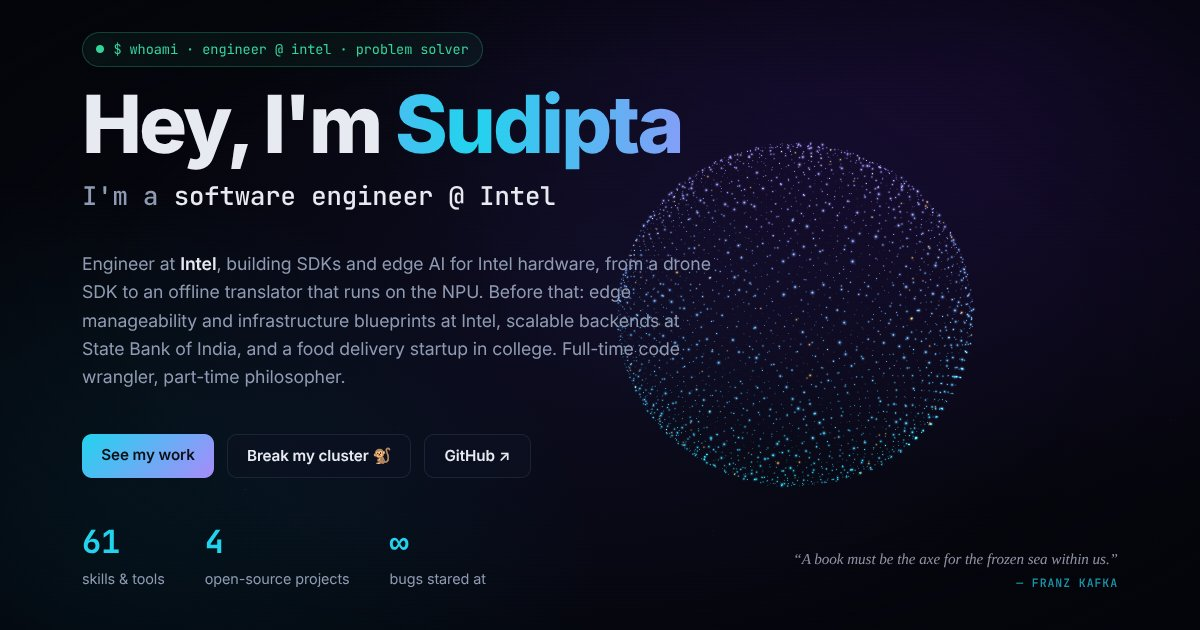
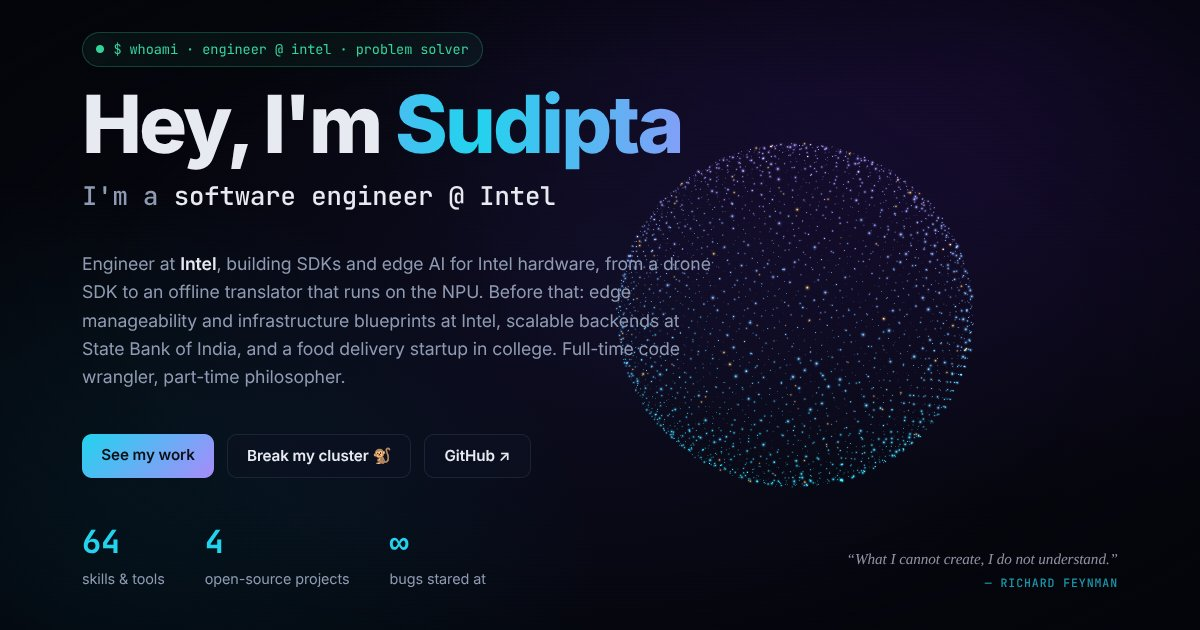
Add Flute Mastery Journey and Second Brain; make Tech Playground collapsible (#8)

diff --git a/docs/main.js b/docs/main.js
@@ -33,6 +33,8 @@
     dsa: ["dsaRepo", "https://github.com/xudipta/dsaRepo"],
     spring: ["springbootCRUD", "https://github.com/xudipta/springbootCRUD"],
     flutter: ["paint_flutter", "https://github.com/xudipta/paint_flutter"],
+    flute: ["Flute Mastery Journey", "https://github.com/xudipta/Flute-Mastery-Journey"],
+    brain: ["Second Brain", "https://github.com/xudipta/second-brain-app"],
     site: ["this site", null],
   };
 
@@ -52,9 +54,10 @@
       items: [["RAG", "mynna"], ["LLM pipelines", "mynna"], ["Pluggable small models", "mynna"], ["Prompt design", "mynna"], ["Hybrid search", "mynna"],
         ["Agent Skills", "cookbook"], ["Model Context Protocol (MCP)", "cookbook"]] },
     { id: "langs", icon: "💻", title: "Languages", blurb: "Picking the right tool, not the favourite one.",
-      items: [["Go"], ["Python", "lingua", "mynna"], ["Java", "spring", "lld"], ["C++", "games", "dsa"], ["JavaScript", "site"], ["SQL", "mynna"], ["Shell", "cookbook"], ["PowerShell"]] },
+      items: [["Go"], ["Python", "lingua", "mynna"], ["Java", "spring", "lld"], ["C++", "games", "dsa"], ["JavaScript", "site", "flute", "brain"], ["SQL", "mynna"], ["Shell", "cookbook"], ["PowerShell"]] },
     { id: "frontend", icon: "🎨", title: "Frontend, Graphics & Games", blurb: "Because shipping includes the part people see.",
-      items: [["WebGL", "site"], ["Canvas & animation", "site"], ["HTML & CSS", "site"], ["Flutter", "flutter"], ["Game development", "games"]] },
+      items: [["WebGL", "site"], ["Canvas & animation", "site", "flute"], ["HTML & CSS", "site"], ["Web Audio", "flute"], ["PWA & offline-first", "flute", "brain"],
+        ["Web Crypto", "brain"], ["Flutter", "flutter"], ["Game development", "games"]] },
     { id: "craft", icon: "📐", title: "Engineering Craft", blurb: "How I think before I type.",
       items: [["System design (HLD)"], ["Low-level design (LLD)", "lld"], ["Design patterns", "lld"], ["Data structures & algorithms", "dsa"],
         ["Architecture decision records", "mynna"], ["POC → production", "mynna"], ["Testing in CI", "cookbook"]] },
@@ -66,6 +69,12 @@
     { name: "Mynna", org: "OxomiAi", url: "https://trip.mynna.chat", linkLabel: "live ↗", icon: "🐦",
       desc: "Shared-session trip planner for Northeast India. Friends plan together in one live chat with Mynna, an AI bot grounded in a curated knowledge base, which builds a shared, live itinerary.",
       tags: ["Python", "FastAPI", "WebSockets", "PostgreSQL", "pgvector", "RAG", "LLM", "Docker"] },
+    { name: "Flute Mastery Journey", repo: `${GITHUB_USER}/Flute-Mastery-Journey`, url: "https://xudipta.github.io/Flute-Mastery-Journey/", linkLabel: "live ↗", icon: "🎶",
+      desc: "An interactive guide to the Indian classical bansuri, from first sur to concert-stage raga: a timed daily riyaaz routine, a microphone pitch tuner, synthesised tanpura and tabla, a tap-to-hear finger chart and animated demos for 16 ragas. Installable and works offline.",
+      tags: ["JavaScript", "Web Audio", "Pitch detection", "PWA", "Offline-first", "Canvas"] },
+    { name: "Second Brain", repo: `${GITHUB_USER}/second-brain-app`, icon: "🧠",
+      desc: "A private capture app for my personal knowledge notebook. It interviews you one question at a time using proven frameworks such as Getting Things Done, never rewrites your words, encrypts everything in the browser and exports clean Markdown.",
+      tags: ["JavaScript", "PWA", "Web Crypto", "AES-256-GCM", "Offline-first", "Markdown"] },
     { name: "nostalgia-bytes", org: "sbrous-org", repo: "sbrous-org/nostalgia-bytes", icon: "🎮",
       desc: "Classic games built in C++: Serpente (Snake), Traffigo (car race), Egatho (egg basket) and Broppy (Flappy Bird), with Make and Windows build scripts.",
       tags: ["C++", "Game Dev", "Make"] },
@@ -174,7 +183,7 @@
 
   // ---------- Skills & projects ----------
   function renderSkills() {
-    const root = $("#skill-groups"), tabs = $("#skill-tabs");
+    const root = $("#skill-groups");
     const total = skills.reduce((n, g) => n + g.items.length, 0);
     const stat = document.querySelector("[data-count-skills]");
     if (stat) stat.dataset.count = total;
@@ -183,16 +192,11 @@
     tip.className = "skill-tip";
     document.body.appendChild(tip);
 
-    tabs.innerHTML = [`<button type="button" class="tab active" data-f="all">All <span>${total}</span></button>`]
-      .concat(skills.map((g) => `<button type="button" class="tab" data-f="${g.id}">${g.icon} ${g.title} <span>${g.items.length}</span></button>`)).join("");
 
     let delay = 0;
-    for (const g of skills) {
-      const card = document.createElement("div");
-      card.className = "card skill-card tilt";
-      card.dataset.group = g.id;
-      card.innerHTML = `<div class="skill-head"><span class="ico">${g.icon}</span><h4>${g.title}</h4><span class="count">${g.items.length}</span></div><p>${g.blurb}</p><div class="chips"></div>`;
-      const chips = card.querySelector(".chips");
+    const chipsFor = (g) => {
+      const chips = document.createElement("div");
+      chips.className = "chips";
       for (const [name, ...refs] of g.items) {
         const used = refs.map((r) => proof[r]).filter(Boolean);
         const link = used.find(([, url]) => url);
@@ -216,20 +220,72 @@
         });
         chips.appendChild(c);
       }
-      root.appendChild(card);
-    }
+      return chips;
+    };
+    const preview = (g) => {
+      const names = g.items.slice(0, 3).map(([n]) => n).join(" · ");
+      return g.items.length > 3 ? `${names} <b>+${g.items.length - 3}</b>` : names;
+    };
+
+    // Phones: one row per category that expands in place, so the skills open right where you tapped.
+    const renderAccordion = () => {
+      skills.forEach((g, i) => {
+        const row = document.createElement("div");
+        row.className = "skill-row card";
+        row.innerHTML = `<button type="button" class="skill-row-head" aria-expanded="false" aria-controls="sk-${g.id}">
+            <span class="ico">${g.icon}</span><span class="skill-row-title"><b>${g.title}</b><small>${preview(g)}</small></span>
+            <span class="count">${g.items.length}</span><span class="chev" aria-hidden="true">⌄</span></button>
+          <div class="skill-row-body" id="sk-${g.id}" role="region"><div><p>${g.blurb}</p></div></div>`;
+        row.querySelector(".skill-row-body > div").appendChild(chipsFor(g));
+        const head = row.querySelector(".skill-row-head");
+        head.addEventListener("click", () => {
+          const open = head.getAttribute("aria-expanded") !== "true";
+          head.setAttribute("aria-expanded", String(open));
+          row.classList.toggle("open", open);
+        });
+        root.appendChild(row);
+        if (i === 0) head.click();
+      });
+    };
+
+    // Wider screens: compact tiles, with the selected category's skills in a panel below.
+    const renderTiles = () => {
+      const grid = document.createElement("div");
+      grid.className = "skill-tiles";
+      grid.setAttribute("role", "tablist");
+      const drawer = document.createElement("div");
+      drawer.className = "skill-drawer card";
+      drawer.setAttribute("role", "tabpanel");
+      const select = (g, tile) => {
+        grid.querySelectorAll(".skill-tile").forEach((t) => t.setAttribute("aria-selected", String(t === tile)));
+        drawer.innerHTML = `<div class="skill-head"><span class="ico">${g.icon}</span><h4>${g.title}</h4><span class="count">${g.items.length}</span></div><p>${g.blurb}</p>`;
+        drawer.appendChild(chipsFor(g));
+        drawer.classList.remove("swap"); void drawer.offsetWidth; drawer.classList.add("swap");
+      };
+      skills.forEach((g, i) => {
+        const tile = document.createElement("button");
+        tile.type = "button";
+        tile.className = "skill-tile card";
+        tile.setAttribute("role", "tab");
+        tile.innerHTML = `<span class="ico">${g.icon}</span><b>${g.title}</b><small>${preview(g)}</small><span class="count">${g.items.length}</span>`;
+        tile.addEventListener("click", () => select(g, tile));
+        grid.appendChild(tile);
+        if (i === 0) select(g, tile);
+      });
+      root.append(grid, drawer);
+    };
+
+    const narrow = window.matchMedia("(max-width: 800px)");
+    const layout = () => {
+      root.replaceChildren();
+      root.className = `skill-groups ${narrow.matches ? "accordion" : "tiles"}`;
+      (narrow.matches ? renderAccordion : renderTiles)();
+    };
+    layout();
+    narrow.addEventListener("change", layout);
 
     root.insertAdjacentHTML("afterend", `<div class="exploring"><span class="pulse"></span><b>Currently exploring</b>${exploring.map((e) => `<span>${e}</span>`).join("")}</div>`);
 
-    tabs.addEventListener("click", (e) => {
-      const t = e.target.closest(".tab");
-      if (!t) return;
-      tabs.querySelectorAll(".tab").forEach((b) => b.classList.toggle("active", b === t));
-      root.querySelectorAll(".skill-card").forEach((card) => {
-        card.hidden = t.dataset.f !== "all" && card.dataset.group !== t.dataset.f;
-      });
-      root.classList.toggle("single", t.dataset.f !== "all");
-    });
     window.addEventListener("scroll", () => tip.classList.remove("on"), { passive: true });
   }
 
@@ -258,7 +314,7 @@
         .then((r) => (r.ok ? r.json() : null))
         .then((repo) => {
           const el = document.querySelector(`.stars[data-repo="${p.repo}"]`);
-          if (repo && el && repo.stargazers_count > 0) el.textContent = `★ ${repo.stargazers_count}`;
+          if (repo && el && repo.stargazers_count > 0) el.textContent = [el.textContent, `★ ${repo.stargazers_count}`].filter(Boolean).join(" · ");
         })
         .catch(() => {});
     }

diff --git a/docs/style.css b/docs/style.css
@@ -289,24 +289,9 @@ kbd { font: 500 0.7rem var(--mono); padding: 0.05rem 0.35rem; border: 1px solid 
 
 /* Skills */
 .skills-intro { margin: -0.6rem 0 1.1rem; }
-.skill-tabs { display: flex; gap: 0.45rem; overflow-x: auto; padding-bottom: 0.4rem; margin-bottom: 1rem; scrollbar-width: thin; }
-.tab {
-  flex: none; font: 500 0.8rem var(--mono); color: var(--muted); background: rgba(12, 16, 32, .6); border: 1px solid var(--line);
-  border-radius: 999px; padding: 0.4rem 0.8rem; cursor: pointer; transition: color .2s, border-color .2s, background .2s;
-}
-.tab span { margin-left: 0.25rem; color: var(--accent-2); }
-.tab:hover { color: var(--text); border-color: rgba(34, 211, 238, .5); }
-.tab.active { color: #05060d; background: var(--accent); border-color: var(--accent); }
-.tab.active span { color: #05060d; opacity: .7; }
-.skill-groups { display: grid; grid-template-columns: repeat(2, 1fr); gap: 1rem; }
-.skill-groups.single { grid-template-columns: 1fr; }
-.skill-card[hidden] { display: none; }
-.skill-card { display: flex; flex-direction: column; gap: 0.5rem; position: relative; overflow: hidden; }
-.skill-card::before { content: ""; position: absolute; inset: 0 auto 0 0; width: 2px; background: linear-gradient(var(--accent), var(--accent-2)); opacity: .7; }
 .skill-head { display: flex; align-items: center; gap: 0.6rem; }
 .skill-head h4 { margin: 0; font-size: 1.05rem; }
 .skill-head .count { margin-left: auto; font: 600 0.72rem var(--mono); color: var(--accent-2); border: 1px solid rgba(167, 139, 250, .35); border-radius: 999px; padding: 0.05rem 0.5rem; }
-.skill-card > p { margin: 0 0 0.3rem; color: var(--muted); font-size: 0.9rem; }
 .chips { display: flex; flex-wrap: wrap; gap: 0.45rem; }
 .chip {
   font-family: var(--mono); font-size: 0.8rem; padding: 0.35rem 0.7rem; border-radius: 999px; color: var(--text);
@@ -415,7 +400,7 @@ footer { position: relative; background: rgba(5, 6, 13, 0.6); backdrop-filter: b
   .stats b { font-size: 1.6rem; }
   .scroll-cue { display: none; }
   .nav nav { display: none; }
-  .about-grid, .resume, .solver-grid, .orbit-wrap, .oss-grid, .k8s-bar, .k-nodes, .skill-groups { grid-template-columns: 1fr; }
+  .about-grid, .resume, .solver-grid, .orbit-wrap, .oss-grid, .k8s-bar, .k-nodes { grid-template-columns: 1fr; }
   .k8s-stats { grid-template-columns: repeat(3, 1fr); }
   .k8s-legend { margin-left: 0; }
   .k-node { min-height: 0; }
@@ -439,3 +424,38 @@ footer { position: relative; background: rgba(5, 6, 13, 0.6); backdrop-filter: b
 .nav nav { margin-left: auto; }
 @media (max-width: 1360px) { .nav nav { gap: 0.85rem; } .nav nav a { font-size: 0.84rem; } }
 @media (hover: none) { .palette-foot { display: none; } }
+
+/* Tech Playground: tiles + panel on wide screens, accordion on phones */
+.skill-groups.accordion, .skill-groups.tiles { display: block; }
+.skill-row { padding: 0; margin-bottom: 0.6rem; overflow: hidden; transition: border-color .2s; }
+.skill-row.open { border-color: rgba(34, 211, 238, .45); }
+.skill-row-head { width: 100%; display: flex; align-items: center; gap: 0.8rem; padding: 0.85rem 1.1rem; background: none; border: 0; color: var(--text); cursor: pointer; text-align: left; font: inherit; }
+.skill-row-head:hover .skill-row-title b { color: var(--accent); }
+.skill-row-head .ico { font-size: 1.4rem; }
+.skill-row-title { flex: 1; min-width: 0; display: flex; flex-direction: column; }
+.skill-row-title b { font-size: 1rem; transition: color .2s; }
+.skill-row-title small, .skill-tile small { font: 0.76rem var(--mono); color: var(--muted); white-space: nowrap; overflow: hidden; text-overflow: ellipsis; }
+.skill-row-title small b, .skill-tile small b { color: var(--accent-2); font-weight: 600; }
+.skill-row .count, .skill-tile .count, .skill-drawer .count { font: 600 0.72rem var(--mono); color: var(--accent-2); border: 1px solid rgba(167, 139, 250, .35); border-radius: 999px; padding: 0.05rem 0.5rem; }
+.chev { color: var(--muted); font-size: 1.1rem; transition: transform .3s; }
+.skill-row.open .chev { transform: rotate(180deg); color: var(--accent); }
+.skill-row-body { display: grid; grid-template-rows: 0fr; transition: grid-template-rows .35s ease; }
+.skill-row.open .skill-row-body { grid-template-rows: 1fr; }
+.skill-row-body > div { overflow: hidden; padding: 0 1.1rem; }
+.skill-row.open .skill-row-body > div { padding-bottom: 1rem; }
+.skill-row-body p { margin: 0 0 0.7rem; color: var(--muted); font-size: 0.9rem; }
+.skill-tiles { display: grid; grid-template-columns: repeat(4, 1fr); gap: 0.7rem; margin-bottom: 0.8rem; }
+.skill-tile { display: grid; grid-template-columns: auto 1fr auto; grid-template-areas: "ico title count" "prev prev prev"; gap: 0.35rem 0.55rem; align-items: center; padding: 0.8rem 0.9rem; text-align: left; color: var(--text); cursor: pointer; font: inherit; transition: border-color .2s, transform .2s, box-shadow .2s; }
+.skill-tile .ico { grid-area: ico; font-size: 1.25rem; } .skill-tile b { grid-area: title; font-size: 0.88rem; line-height: 1.25; } .skill-tile .count { grid-area: count; } .skill-tile small { grid-area: prev; }
+.skill-tile:hover { border-color: rgba(34, 211, 238, .5); transform: translateY(-2px); }
+.skill-tile[aria-selected="true"] { border-color: var(--accent); box-shadow: 0 0 0 1px var(--accent), 0 0 24px rgba(34, 211, 238, .18); }
+.skill-drawer { display: flex; flex-direction: column; gap: 0.5rem; }
+.skill-drawer > p { margin: 0 0 0.3rem; color: var(--muted); font-size: 0.9rem; }
+.skill-drawer.swap { animation: drawerIn .3s ease; }
+@keyframes drawerIn { from { opacity: 0; transform: translateY(6px); } }
+.skill-drawer .chip, .skill-row .chip { opacity: 1; transform: none; }
+@media (max-width: 800px) { .skill-tiles { grid-template-columns: repeat(2, 1fr); } }
+.project-grid { grid-template-columns: repeat(2, 1fr); }
+@media (max-width: 800px) { .project-grid { grid-template-columns: 1fr; } }
+.skill-tile, .skill-row-title { min-width: 0; }
+.project-grid > .project:last-child:nth-child(odd) { grid-column: 1 / -1; }

diff --git a/docs/index.html b/docs/index.html
@@ -61,7 +61,7 @@
         <a class="btn" href="https://github.com/xudipta" target="_blank" rel="noopener">GitHub ↗</a>
       </div>
       <div class="stats">
-        <div><b data-count="61" data-count-skills>0</b><span>skills &amp; tools</span></div>
+        <div><b data-count="64" data-count-skills>0</b><span>skills &amp; tools</span></div>
         <div><b data-count="4">0</b><span>open-source projects</span></div>
         <div><b>∞</b><span>bugs stared at</span></div>
       </div>
@@ -174,8 +174,7 @@
 
     <section id="skills" class="reveal">
       <h3 class="section-title"><span>04.</span> Tech Playground</h3>
-      <p class="muted skills-intro">The tools I reach for, grouped by the problems they solve. Hover a highlighted skill to see where I've used it; click to open the project.</p>
-      <div id="skill-tabs" class="skill-tabs" role="toolbar" aria-label="Filter skills"></div>
+      <p class="muted skills-intro">The tools I reach for, grouped by the problems they solve. Pick a category to see its skills; hover a highlighted one to see where I've used it, and click to open the project.</p>
       <div id="skill-groups" class="skill-groups"></div>
     </section>
 

diff --git a/README.md b/README.md
@@ -50,7 +50,7 @@ I'm a software engineer at **Intel**, building SDKs and edge AI for Intel hardwa
 **🗄 Backend & Data:** `FastAPI` • `Spring Boot` • `REST` • `WebSockets` • `PostgreSQL` • `pgvector` • `SQLite`  
 **🤖 AI & LLM Apps:** `RAG` • `LLM pipelines` • `Hybrid search` • `Prompt design` • `Agent Skills` • `MCP`  
 **💻 Languages:** `Go` • `Python` • `Java` • `C++` • `JavaScript` • `SQL` • `Shell` • `PowerShell`  
-**🎨 Frontend & Games:** `WebGL` • `Canvas` • `HTML & CSS` • `Flutter` • `Game development`  
+**🎨 Frontend & Games:** `WebGL` • `Canvas` • `HTML & CSS` • `Web Audio` • `PWA & offline-first` • `Web Crypto` • `Flutter` • `Game development`  
 **📐 Engineering Craft:** `HLD` • `LLD` • `Design patterns` • `DSA` • `ADRs` • `POC → production`
 
 ---
@@ -59,6 +59,8 @@ I'm a software engineer at **Intel**, building SDKs and edge AI for Intel hardwa
 | Project | What it is | Stack |
 |---|---|---|
 | [**🐦 Mynna**](https://trip.mynna.chat) · [@OxomiAi](https://github.com/OxomiAi) | Shared-session trip planner for Northeast India. Friends plan together in one live chat with Mynna, an AI bot grounded in a curated knowledge base, which builds a shared, live itinerary. | `Python` `FastAPI` `WebSockets` `PostgreSQL` `pgvector` `RAG` `LLM` `Docker` |
+| [**🎶 Flute Mastery Journey**](https://xudipta.github.io/Flute-Mastery-Journey/) | An interactive guide to the Indian classical bansuri: a timed daily riyaaz routine, a microphone pitch tuner, synthesised tanpura and tabla, a tap-to-hear finger chart and animated demos for 16 ragas. Installable and works offline. | `JavaScript` `Web Audio` `Pitch detection` `PWA` |
+| [**🧠 Second Brain**](https://github.com/xudipta/second-brain-app) | A private capture app for my personal knowledge notebook. It interviews you one question at a time using proven frameworks, never rewrites your words, encrypts everything in the browser and exports clean Markdown. | `JavaScript` `PWA` `Web Crypto` `AES-256-GCM` |
 | [**🎮 nostalgia-bytes**](https://github.com/sbrous-org/nostalgia-bytes) · [@sbrous-org](https://github.com/sbrous-org) | Classic games built in C++: Serpente (Snake), Traffigo (car race), Egatho (egg basket) and Broppy (Flappy Bird). | `C++` `Game Dev` `Make` |
 | [**📖 cookbook**](https://github.com/xudipta/cookbook) | CI-validated notes on Kubernetes, Docker, Linux, Terraform, CI/CD, Agent Skills and MCP. Every note ships with a runnable, automatically checked example. | `Python` `Shell` `GitHub Actions` |
 
